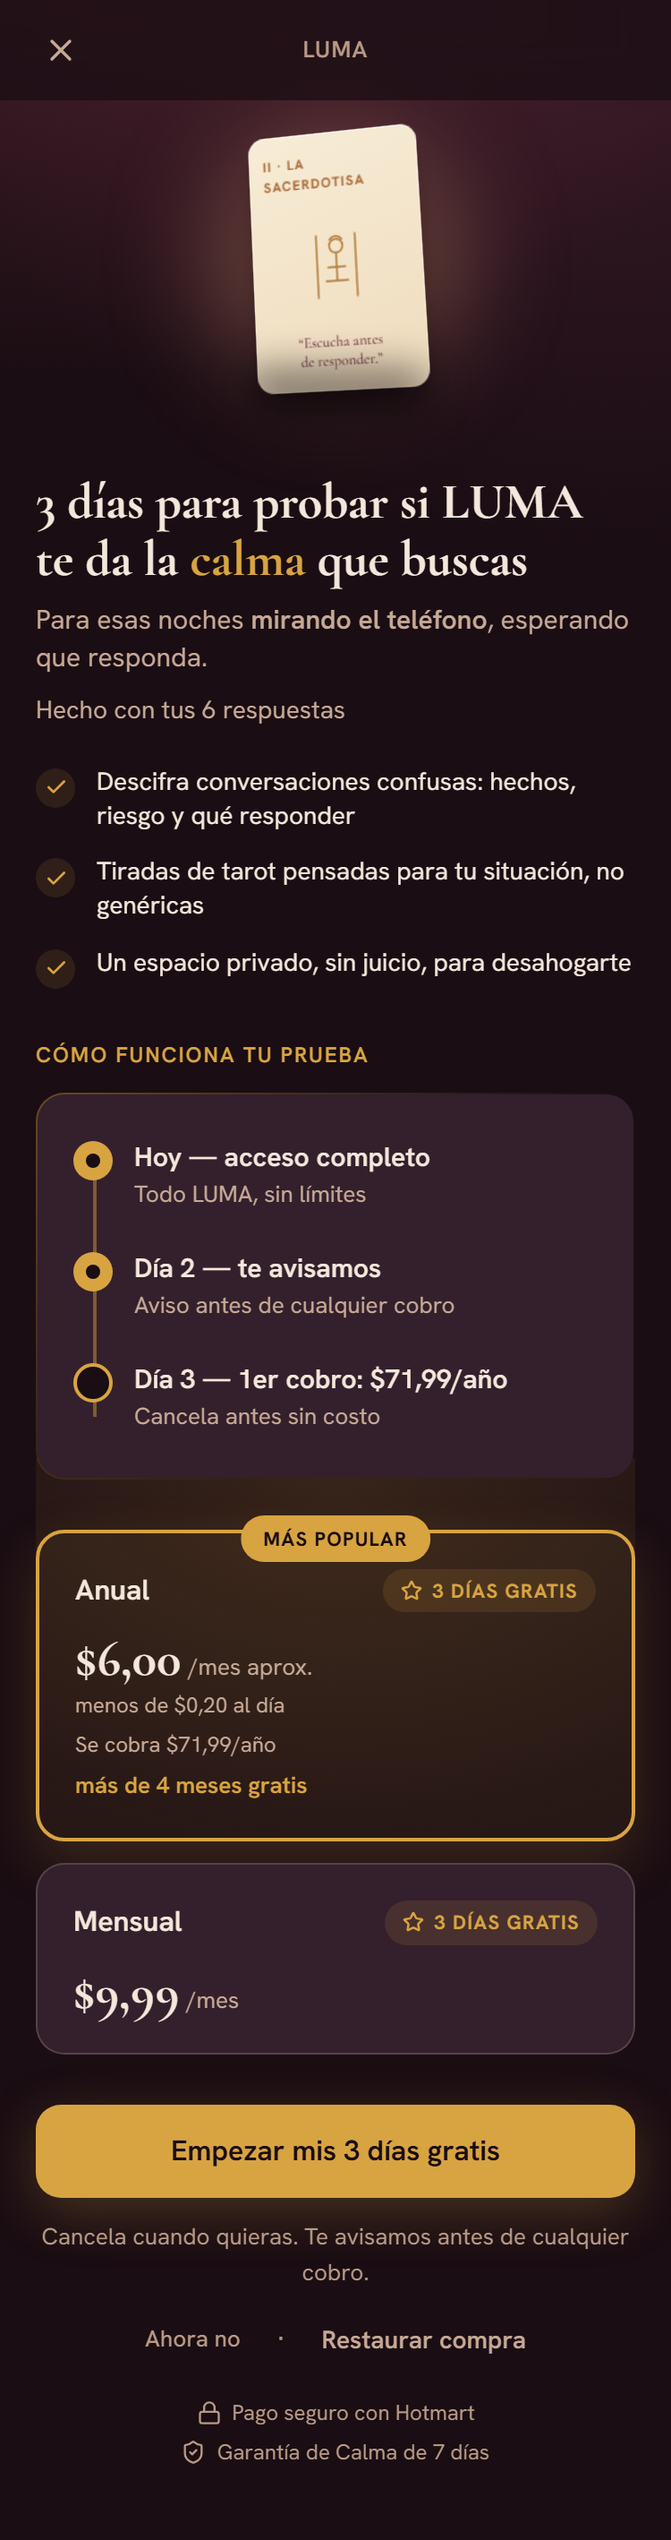
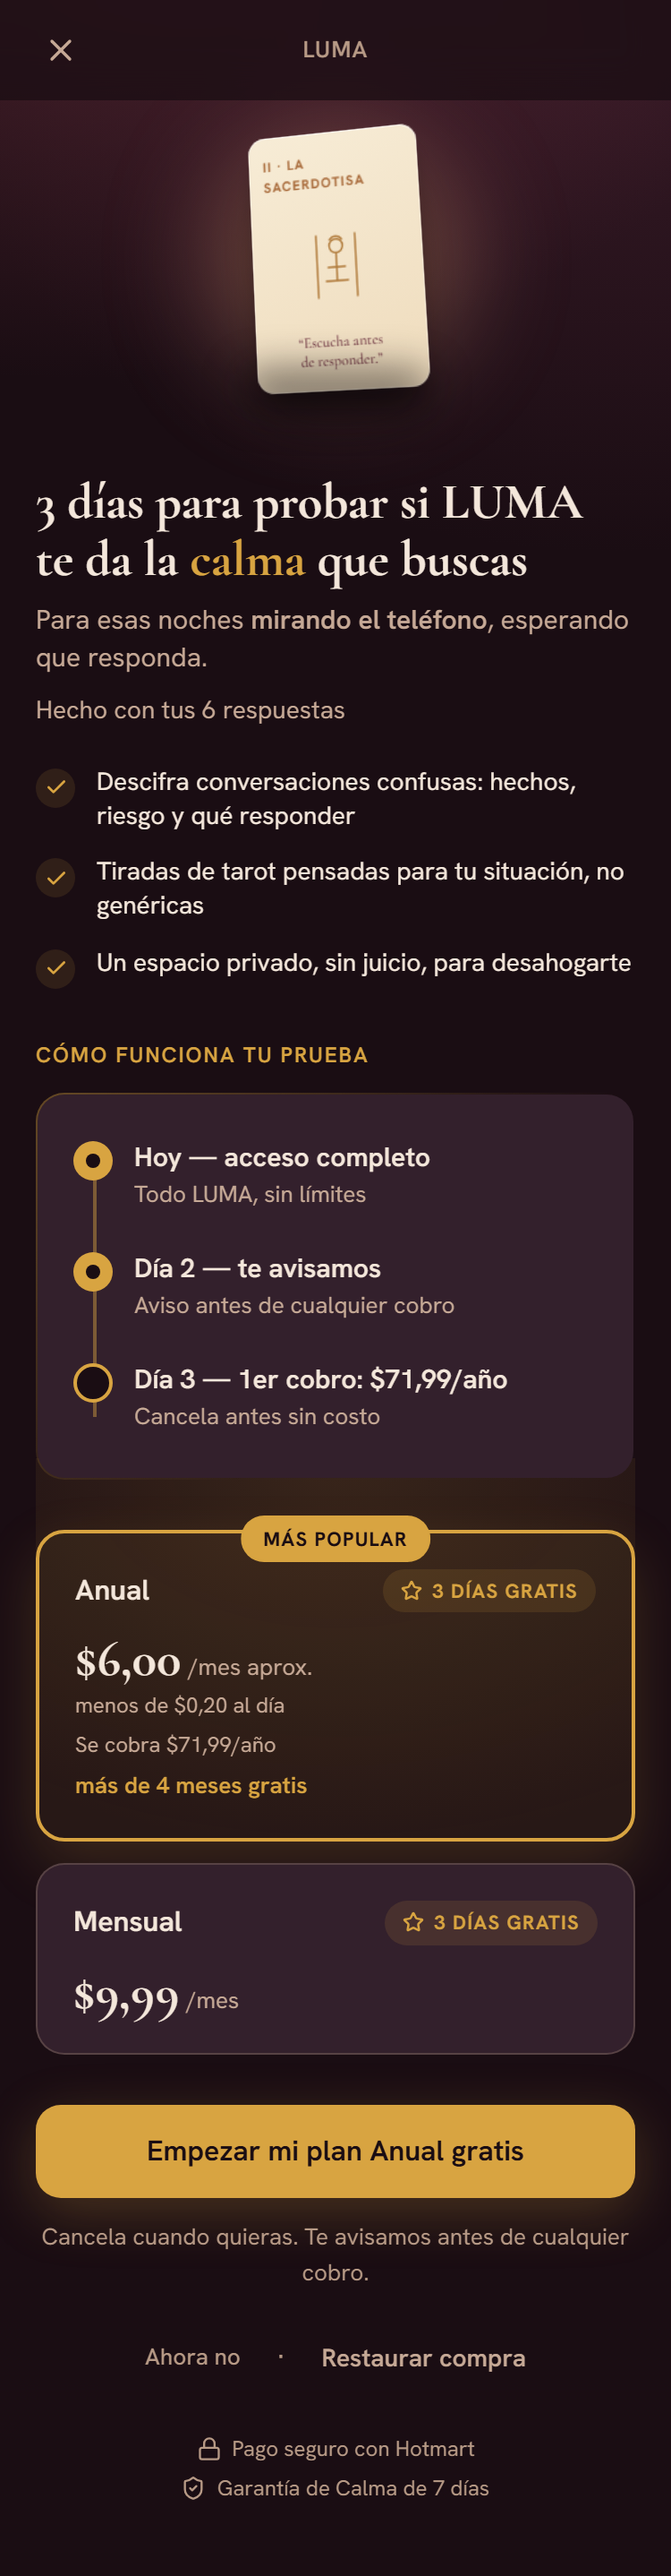
fix(sesion-4): paywall/entrar — corrige defectos de la 6a revision del revisor-visual
- Area tactil de 44px en los 4 links/botones de solo texto que no la
  tenian (Ahora no, Restaurar compra, Volver a los planes en la
  confirmacion, Reenviar y Volver en /entrar) — heuristica UX #5
- Pantalla "confirmado" del paywall: reutiliza el mismo header (X + LUMA)
  que el resto del funnel, en vez de dejar la X flotando sola sin marca
- CTA principal ahora refleja el plan seleccionado ("Empezar mi plan
  Anual/Mensual gratis" en vez de un texto generico)
- /entrar: agrega contexto via ?desde=paywall — si "Restaurar compra"
  trajo al usuario desde ahi, el enlace de salida dice "Volver a los
  planes" y apunta a /paywall en vez de perder el contexto con un
  generico "Volver al inicio"

No se toco el "vacio" de la pantalla confirmado (defecto #2 de esta
ronda): verificado una vez mas que el PNG es 750x1624 (viewport real,
no full-page) — es la 3a vez que una ronda mide mal las proporciones de
esta captura especifica; se documenta en ESTADO.md para no seguir
persiguiendolo sin evidencia nueva.

diff --git a/app/paywall/page.tsx b/app/paywall/page.tsx
@@ -72,14 +72,20 @@ export default function PaywallLuma() {
 
   if (confirmado) {
     return (
-      <div className="relative flex min-h-dvh flex-col items-center justify-center px-6 text-center [font-family:var(--font-body)]">
-        <a
-          href="/"
-          aria-label="Cerrar"
-          className="absolute left-3 top-3 flex size-11 items-center justify-center rounded-[var(--radius-button)] text-[var(--text-secondary)] focus-visible:outline-none focus-visible:ring-2 focus-visible:ring-[var(--accent)]"
-        >
-          <X size={20} strokeWidth={2} aria-hidden="true" />
-        </a>
+      <div className="flex min-h-dvh flex-col [font-family:var(--font-body)]">
+        {/* Mismo header que el resto del funnel (antes solo dejaba la X flotando sin marca) */}
+        <div className="flex h-14 items-center justify-between px-3">
+          <a
+            href="/"
+            aria-label="Cerrar"
+            className="flex size-11 items-center justify-center rounded-[var(--radius-button)] text-[var(--text-secondary)] focus-visible:outline-none focus-visible:ring-2 focus-visible:ring-[var(--accent)]"
+          >
+            <X size={20} strokeWidth={2} aria-hidden="true" />
+          </a>
+          <span className="text-[13px] font-semibold tracking-[0.04em] text-[var(--text-tertiary)]">LUMA</span>
+          <span className="size-11" aria-hidden="true" />
+        </div>
+        <div className="flex flex-1 flex-col items-center justify-center px-6 pb-14 text-center">
         <motion.div
           initial={{ opacity: 0, scale: reduce ? 1 : 0.9 }}
           animate={{ opacity: 1, scale: 1 }}
@@ -119,11 +125,12 @@ export default function PaywallLuma() {
           <button
             type="button"
             onClick={() => setConfirmado(false)}
-            className="mt-6 text-[14px] font-medium text-[var(--accent)] underline-offset-4 hover:underline"
+            className="mt-6 flex min-h-11 items-center px-3 text-[14px] font-medium text-[var(--accent)] underline-offset-4 hover:underline"
           >
             Volver a los planes
           </button>
         </motion.div>
+        </div>
       </div>
     );
   }
@@ -252,16 +259,16 @@ export default function PaywallLuma() {
             whileTap={{ scale: 0.97 }}
             className="flex h-[52px] w-full items-center justify-center rounded-[var(--radius-button)] bg-[var(--accent)] text-[16px] font-semibold text-[var(--bg)] shadow-[0_8px_30px_color-mix(in_oklab,var(--accent)_25%,transparent)] [touch-action:manipulation] focus-visible:outline-none focus-visible:ring-2 focus-visible:ring-[var(--accent)]"
           >
-            Empezar mis {TRIAL_DIAS} días gratis
+            Empezar mi plan {seleccionado === 'anual' ? 'Anual' : 'Mensual'} gratis
           </motion.button>
           <p className="mt-3 text-center text-[13px] text-[var(--text-tertiary)]">
             Cancela cuando quieras. Te avisamos antes de cualquier cobro.
           </p>
 
-          <div className="mt-4 flex items-center justify-center gap-5">
+          <div className="mt-4 flex items-center justify-center gap-2">
             <a
               href="/"
-              className="text-[13px] font-medium text-[var(--text-tertiary)] underline-offset-4 hover:underline focus-visible:outline-none focus-visible:ring-2 focus-visible:ring-[var(--accent)]"
+              className="flex min-h-11 items-center px-3 text-[13px] font-medium text-[var(--text-tertiary)] underline-offset-4 hover:underline focus-visible:outline-none focus-visible:ring-2 focus-visible:ring-[var(--accent)]"
             >
               Ahora no
             </a>
@@ -271,8 +278,8 @@ export default function PaywallLuma() {
             {/* Más peso que "Ahora no": recuperar una compra ya hecha no es lo
                 mismo que abandonar el flujo (defecto de jerarquía de conversión). */}
             <a
-              href="/entrar"
-              className="text-[14px] font-semibold text-[var(--text-secondary)] underline-offset-4 hover:underline focus-visible:outline-none focus-visible:ring-2 focus-visible:ring-[var(--accent)]"
+              href="/entrar?desde=paywall"
+              className="flex min-h-11 items-center px-3 text-[14px] font-semibold text-[var(--text-secondary)] underline-offset-4 hover:underline focus-visible:outline-none focus-visible:ring-2 focus-visible:ring-[var(--accent)]"
             >
               Restaurar compra
             </a>

diff --git a/app/entrar/page.tsx b/app/entrar/page.tsx
@@ -22,6 +22,13 @@ export default function EntrarLuma() {
   const [estado, setEstado] = useState<Estado>('reposo');
   const [segundosRestantes, setSegundosRestantes] = useState(0);
   const [avisoGoogle, setAvisoGoogle] = useState(false);
+  // ?desde=paywall (enlace de "Restaurar compra"): ofrece volver ahí en vez
+  // de perder el contexto de compra con un genérico "Volver al inicio".
+  const [vieneDePaywall, setVieneDePaywall] = useState(false);
+
+  useEffect(() => {
+    setVieneDePaywall(new URLSearchParams(window.location.search).get('desde') === 'paywall');
+  }, []);
 
   useEffect(() => {
     if (segundosRestantes <= 0) return;
@@ -69,12 +76,15 @@ export default function EntrarLuma() {
             onClick={() => {
               setSegundosRestantes(REENVIAR_SEGUNDOS);
             }}
-            className="mt-6 text-[14px] font-medium text-[var(--accent)] underline-offset-4 hover:underline disabled:text-[var(--text-tertiary)] disabled:no-underline"
+            className="mt-6 flex min-h-11 items-center px-3 text-[14px] font-medium text-[var(--accent)] underline-offset-4 hover:underline disabled:text-[var(--text-tertiary)] disabled:no-underline"
           >
             {segundosRestantes > 0 ? `Reenviar en ${segundosRestantes}s` : 'Reenviar'}
           </button>
-          <a href="/" className="mt-4 text-[13px] text-[var(--text-tertiary)] underline-offset-4 hover:underline">
-            Volver al inicio
+          <a
+            href={vieneDePaywall ? '/paywall' : '/'}
+            className="mt-4 flex min-h-11 items-center px-3 text-[13px] text-[var(--text-tertiary)] underline-offset-4 hover:underline"
+          >
+            {vieneDePaywall ? '‹ Volver a los planes' : 'Volver al inicio'}
           </a>
         </motion.div>
       </div>
